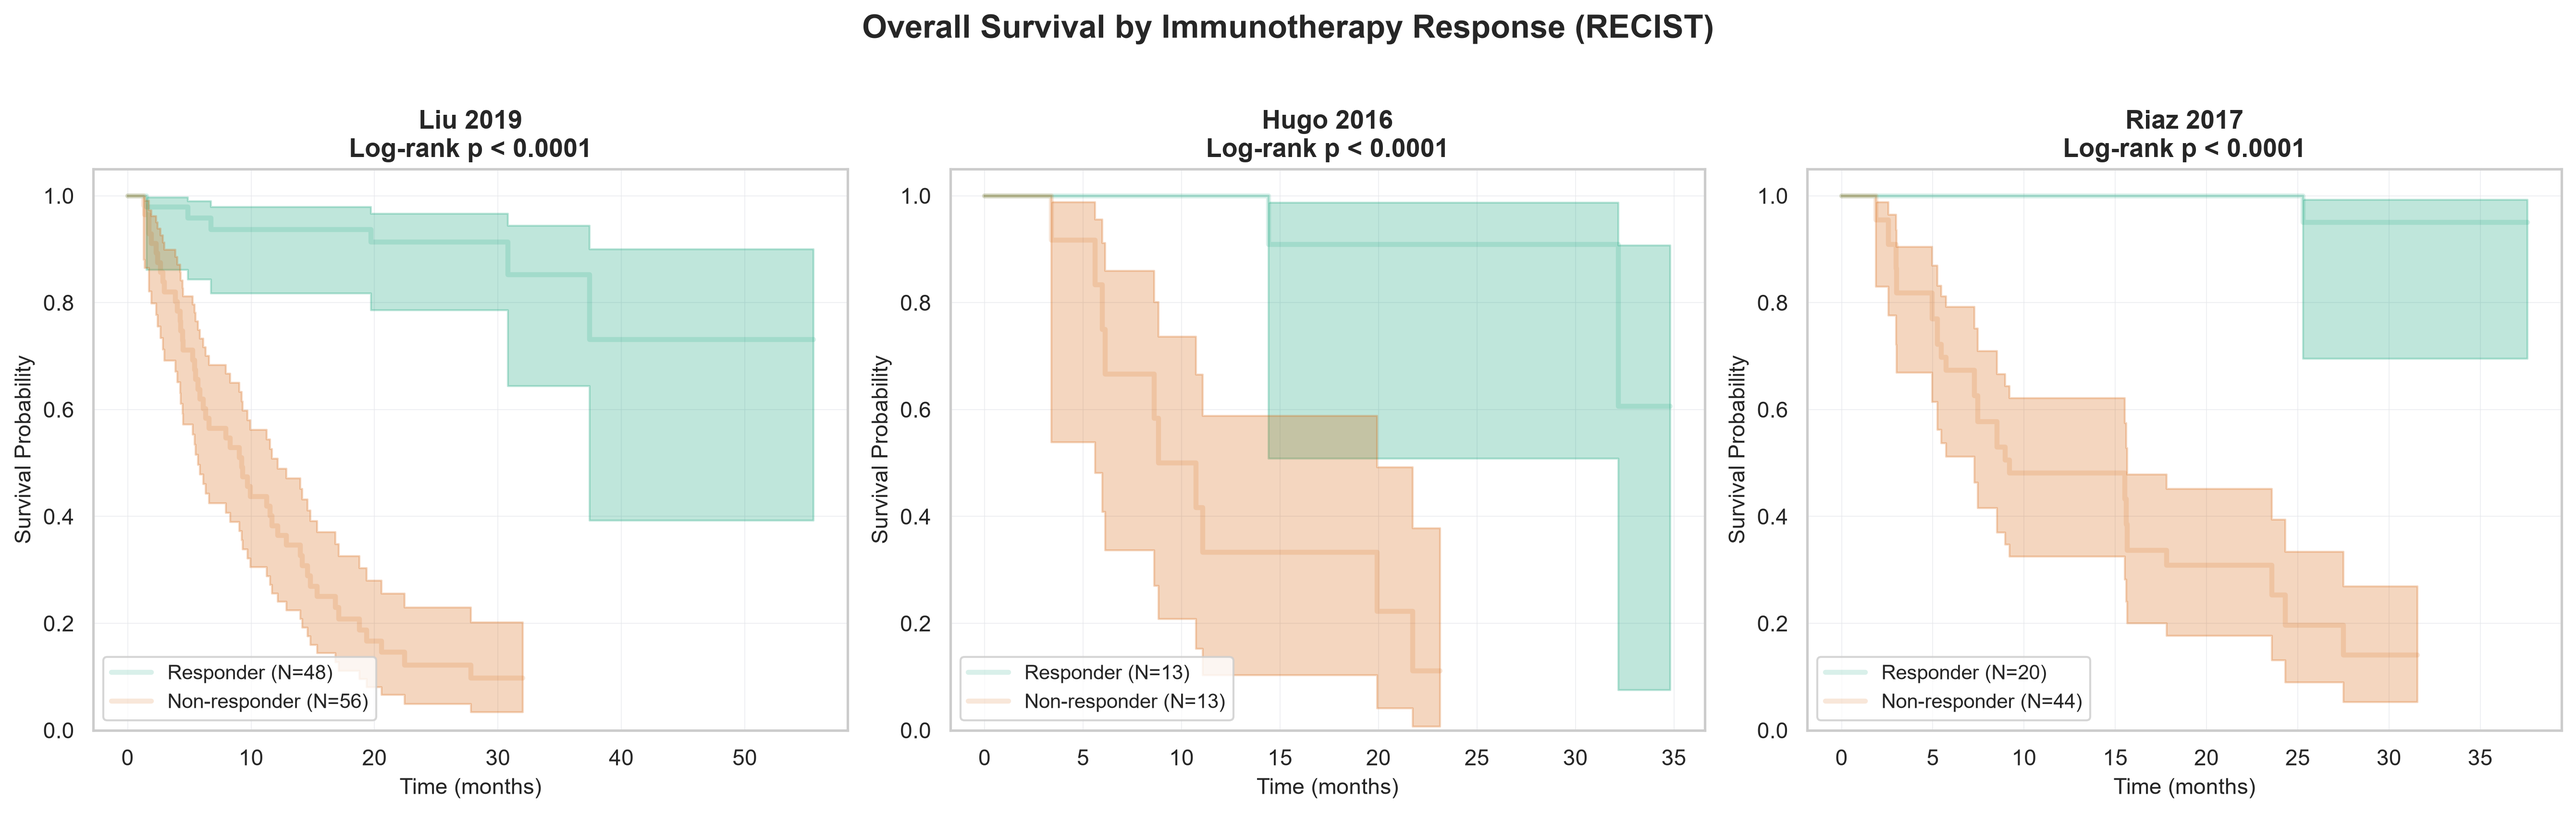
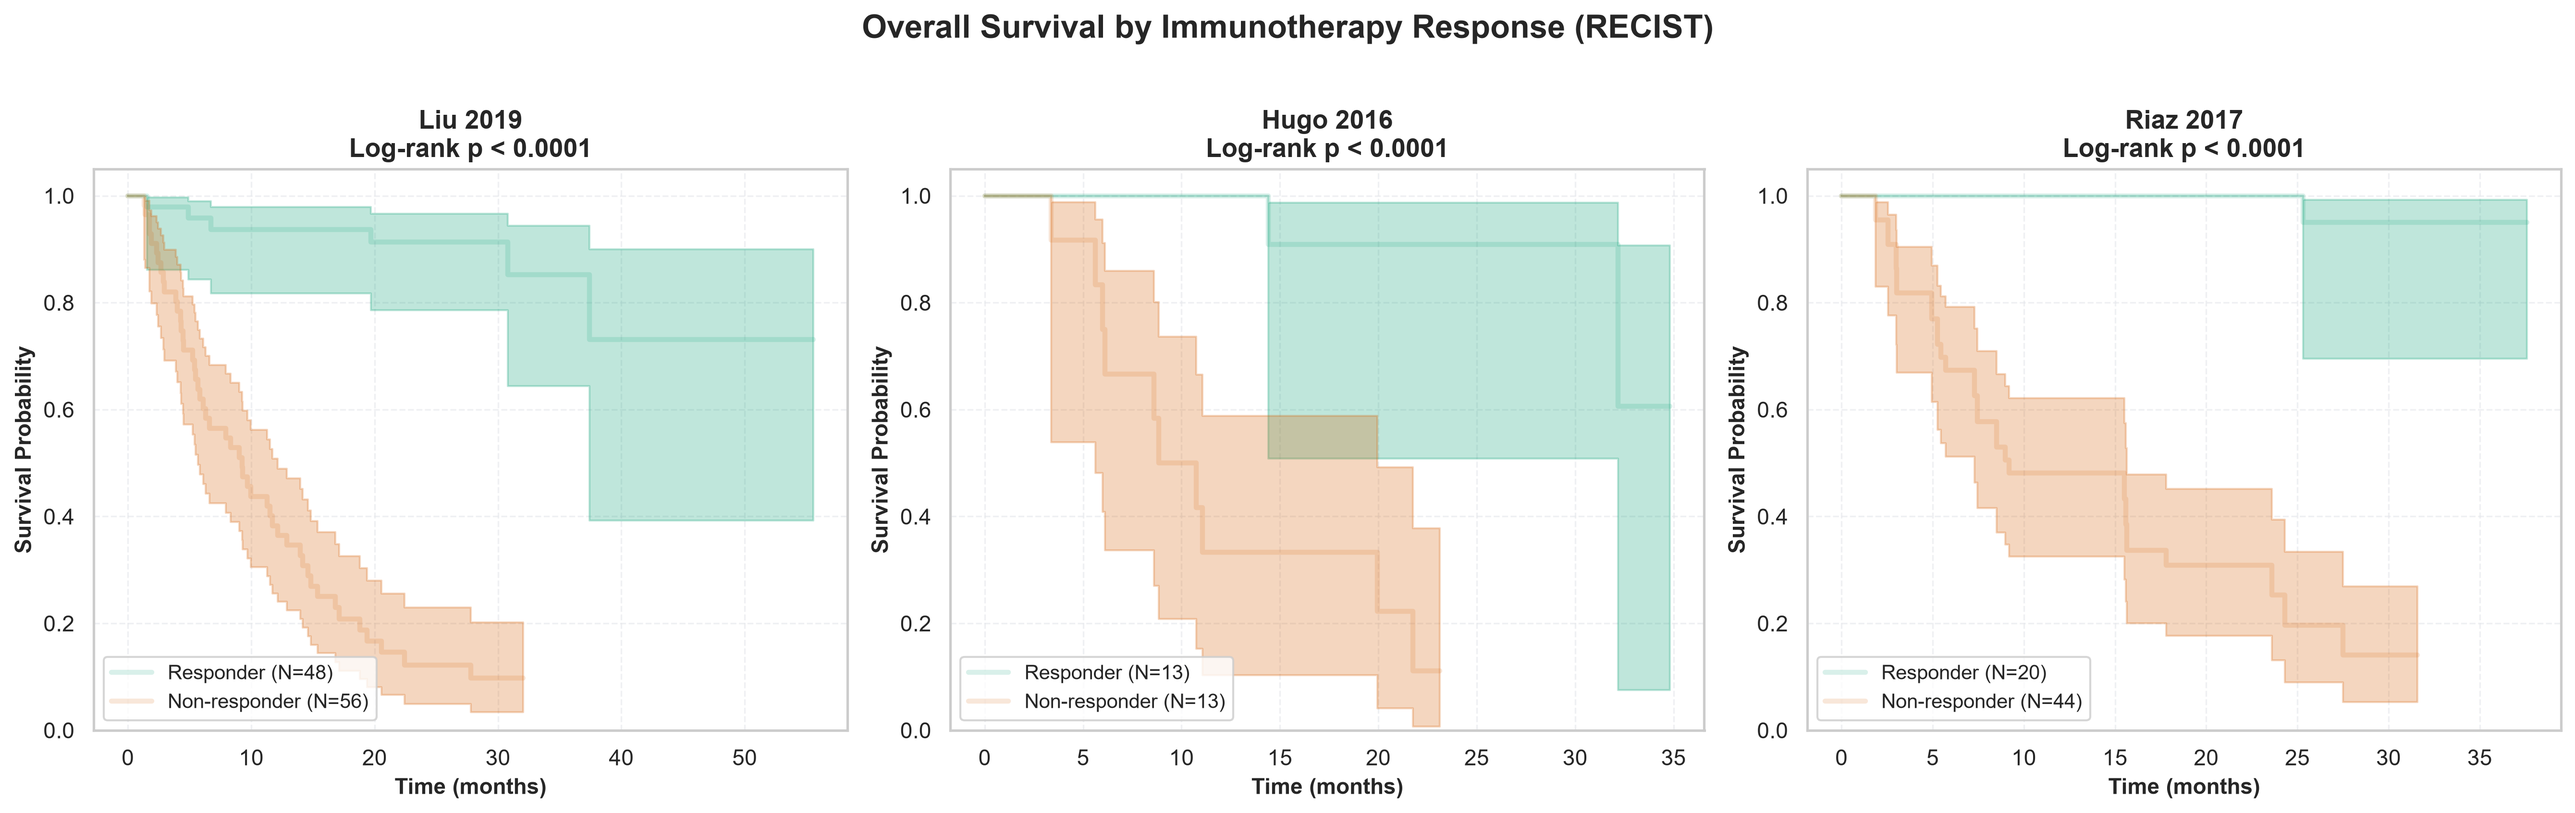
style(plots): fix gridlines and z-order with axisbelow on KM survival plots

diff --git a/q1-response-predictor/src/evaluation.py b/q1-response-predictor/src/evaluation.py
@@ -395,8 +395,10 @@ def plot_survival_2x2_grid(cohort_survival_data, save_path=None):
         else:
             ax.set_title(f"{cohort_name} (Constant Predictions)", fontsize=12, fontweight='bold')
 
-        ax.set_xlabel('Survival Time (Months)')
-        ax.set_ylabel('Overall Survival Probability')
+        ax.set_xlabel('Survival Time (Months)', fontweight='bold')
+        ax.set_ylabel('Overall Survival Probability', fontweight='bold')
+        ax.set_axisbelow(True)
+        ax.grid(True, linestyle="--", color="#E5E7EB", alpha=0.6, linewidth=0.8)
         ax.legend(loc="lower left")
 
     plt.suptitle("Overall Survival Stratification Across Cohorts by Model Predictions", fontsize=15, fontweight='bold', y=0.98)

diff --git a/q1-response-predictor/scripts/exploratory_plots/run_response_km_curves.py b/q1-response-predictor/scripts/exploratory_plots/run_response_km_curves.py
@@ -84,9 +84,11 @@ def plot_cohort_km_by_response(ax: plt.Axes, df_clin: pd.DataFrame, cohort_name:
 
     title_suffix = f"\nLog-rank p = {p_val:.4f}" if p_val >= 0.0001 else "\nLog-rank p < 0.0001"
     ax.set_title(f"{cohort_name}{title_suffix}", fontsize=13, fontweight="bold")
-    ax.set_xlabel("Time (months)", fontsize=11)
-    ax.set_ylabel("Survival Probability", fontsize=11)
+    ax.set_xlabel("Time (months)", fontsize=11, fontweight="bold")
+    ax.set_ylabel("Survival Probability", fontsize=11, fontweight="bold")
     ax.set_ylim(0, 1.05)
+    ax.set_axisbelow(True)
+    ax.grid(True, linestyle="--", color="#E5E7EB", alpha=0.6, linewidth=0.8)
     ax.legend(loc="lower left", fontsize=10)
 
 
